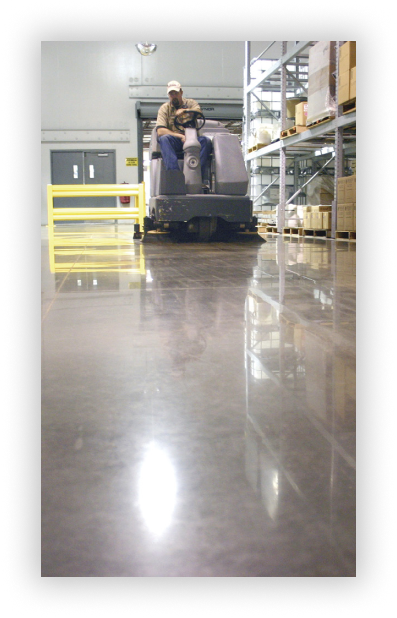
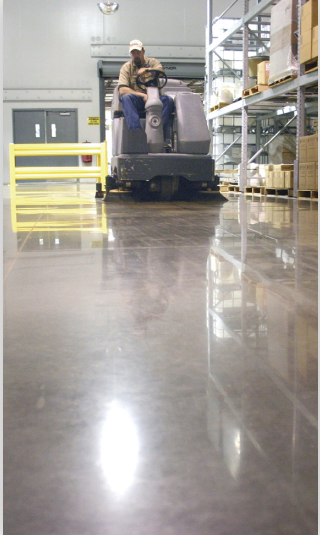
Fixed image spacing issues

diff --git a/style.css b/style.css
@@ -60,22 +60,27 @@ ul{
     display: flex;
     padding-top: 1em;
 }
-.servicesSection img{
-   
-}
 .servicesSectionLeftSide{
-    width: 40%;
-    padding-left: 4.5em;
+    width: 50%;
+    padding-left: 4em;
 
 }
 .servicesSectionRightSide{
     display: grid;
-    width: 20%;
     grid-template-columns: 1fr 1fr;
+    grid-template-rows: 1fr 1fr;
+    height: 520px;
+    width: 40%;
     padding: 0;
     margin:0;
   }
-  
+.first .second .third img{
+    height:100%;
+    width:100%;
+    object-fit: cover;
+    border: 1px red solid;
+    align-self: end;
+}
   .first {
     grid-column: 1 / 2;
     grid-row: 1 / span 2;
@@ -84,11 +89,13 @@ ul{
   .second {
     grid-column: 2 / 2;
     grid-row: 1 / 2;
+    max-height: 265px;
   }
   
   .third {
     grid-column: 2 / 2;
     grid-row: 2 / 2;
+    max-height: 265px;
   }
   
 .testimonialSection{
@@ -101,10 +108,11 @@ ul{
     font-size: 2em;
 }
 .testimonialImgs{
-    display: flex;
-    gap: 15px;
+    display: inline-block;
 }
-
+.testimonialImgs img{
+    padding: 15px;
+}
 button{
     height: 53px;
     width: 315px;

diff --git a/index.html b/index.html
@@ -36,9 +36,9 @@
             <button>Get In Touch</button>
         </div>
         <div class="servicesSectionRightSide">
-            <img class="first" src="img/Rectangle10.png" alt="">
-            <img class="second" src="img/Rectangle11.png" alt="">
-            <img class="third" src="img/Rectangle12.png" alt="">
+            <div class="first"><img src="img/Rectangle10.png" alt=""></div>
+            <div class="second"><img src="img/Rectangle11.png" alt=""></div>
+            <div class="third"><img src="img/Rectangle12.png" alt=""></div>
         </div>
     </div>
     <div class="testimonialWrapper">
